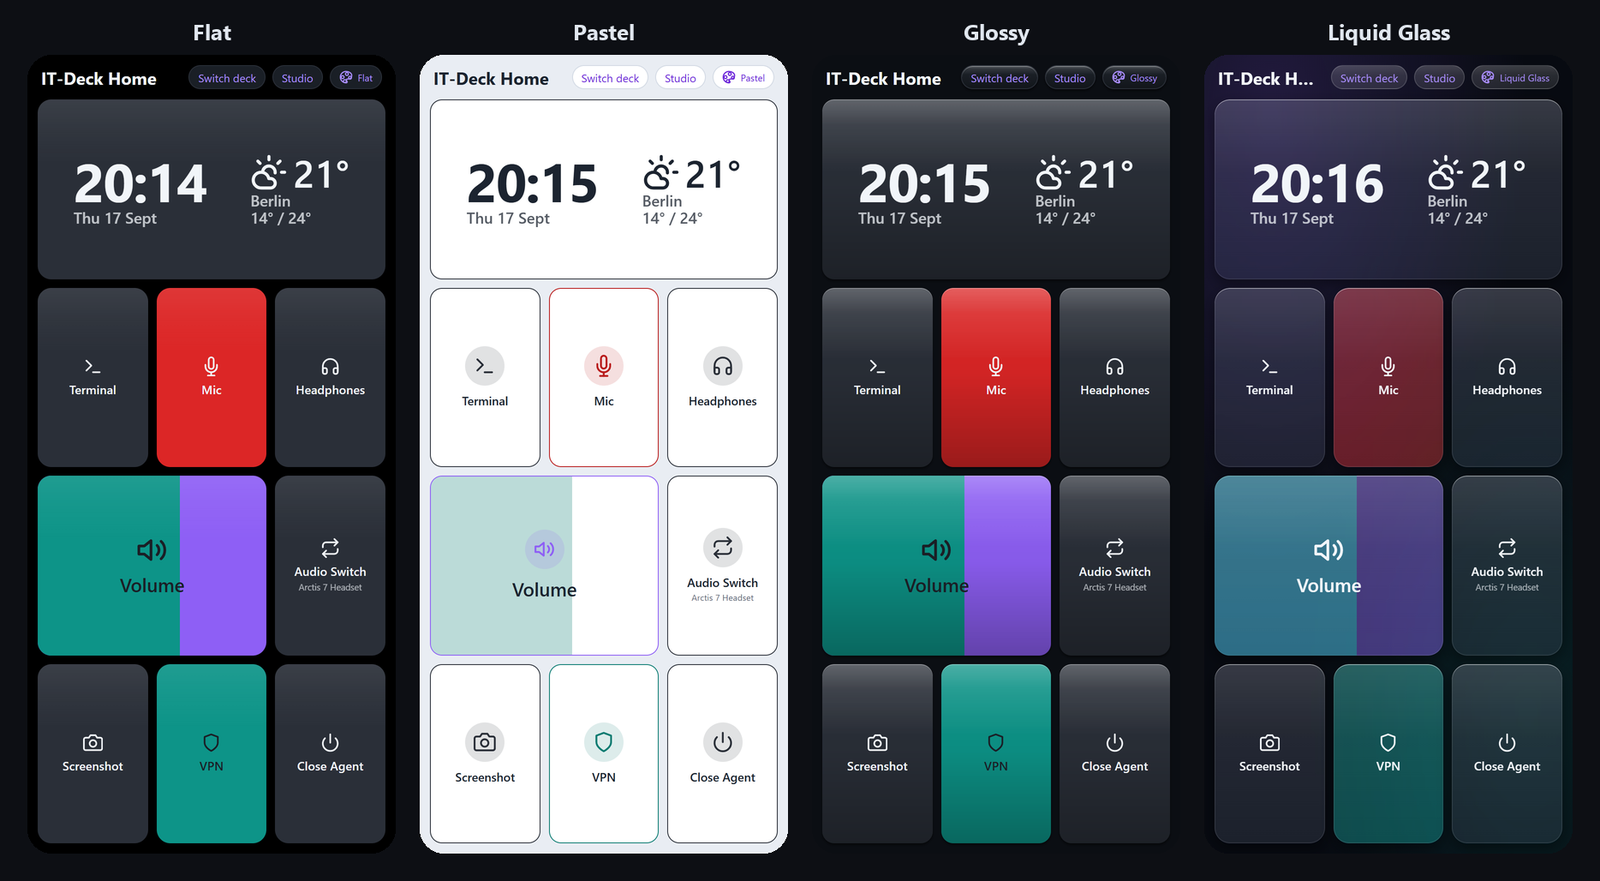
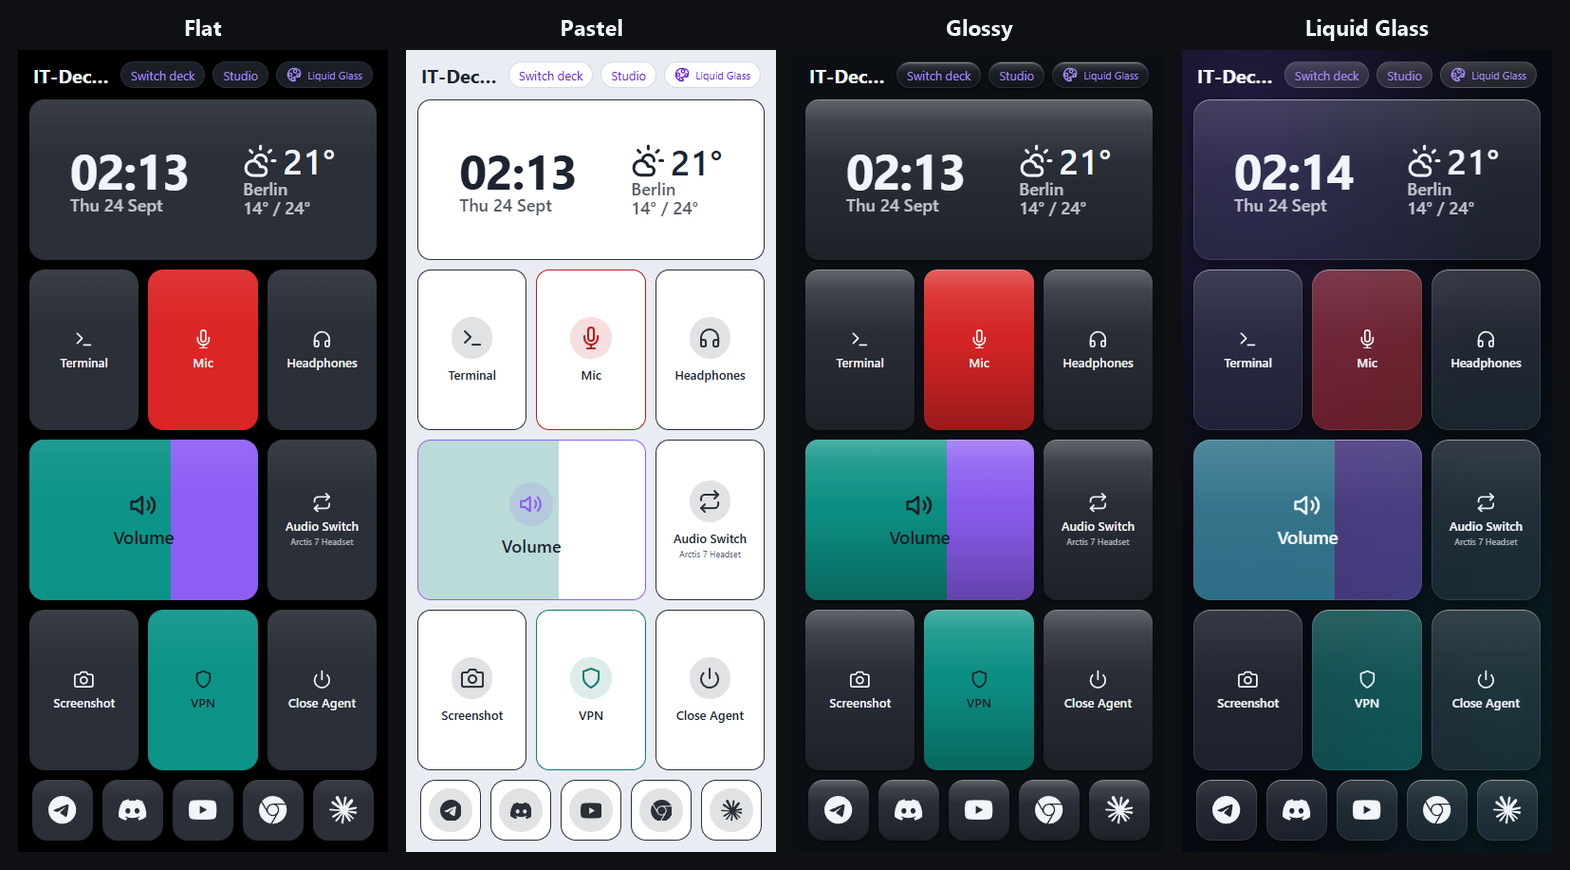
fix: keep tile state across redraws; new README screenshots
The backend sends state once on connect and then only changes, so any
redraw -- a Studio edit, or the first render racing the initial push --
left every tile unlit until its value changed. render.js now remembers
the last reported state and re-applies it after each render.

README and the in-app guide get fresh screenshots: the quick-launch bar
in all four themes, v0.5.0's Studio and PC window.

diff --git a/frontend/js/render.js b/frontend/js/render.js
@@ -411,6 +411,9 @@ export function renderWorkspace(workspace, onTileClick, onSliderChange, onTileLo
     applyTileInk(tile);
   }
 
+  // Fresh tiles know nothing; give them the state already reported.
+  updateTileState({ ...knownState });
+
   // Also after the append: a widget lays itself out with container queries,
   // and those need a tile that is in the document and has a size.
   for (const [tile, item] of widgets) {
@@ -532,7 +535,16 @@ function attachSliderHandlers(tile, item, onSliderChange) {
   });
 }
 
+// The last value seen for every state key. The backend sends the full state
+// once when the socket connects and only *changes* after that, so anything
+// that redraws the tiles -- the first render racing that initial push, or a
+// Studio edit re-rendering the deck -- would otherwise come back with every
+// tile unlit until its value happened to change again (a muted mic showing
+// as live). renderWorkspace re-applies this after drawing.
+const knownState = {};
+
 export function updateTileState(stateData) {
+  Object.assign(knownState, stateData);
   for (const [key, value] of Object.entries(stateData)) {
     const tiles = document.querySelectorAll(`.tile[data-state-key="${CSS.escape(key)}"]`);
 

diff --git a/docs/IT-Deck_Tech_Reference.md b/docs/IT-Deck_Tech_Reference.md
@@ -123,7 +123,7 @@ state snapshot every second.
 | `js/app.js` | Boot: fetch workspaces, resolve which deck to show (`localStorage` → `?workspace=` → selector), render, wire WebSocket callbacks, map tagged failures to actionable messages. Ends with the empty `touchstart` listener iOS needs for `:active`. |
 | `js/api.js` | REST fetches plus per-item `params` JSON parsing. Tags each failure kind (`unreachable`, `status`, `badReply`, `badParams`). |
 | `js/ws.js` | Client WebSocket: connect/reconnect with backoff (1 s → 30 s), `sendExecute`, `sendSetValue`, manual `req_id` generation, and the in-flight bookkeeping that turns raw result frames into per-tile `pending`/`ok`/`error` phases. |
-| `js/render.js` | Every DOM write: grid, quick-launch bar and tiles, the icon table and `tileIconFor()` (glyph / brand logo / text / site-icon image), the WCAG ink calculation, the volume slider's pointer + keyboard handling, live state → colour/fill/subtitle, command-feedback classes, the workspace selector, the error state. |
+| `js/render.js` | Every DOM write: grid, quick-launch bar and tiles, the icon table and `tileIconFor()` (glyph / brand logo / text / site-icon image), the WCAG ink calculation, the last reported state (`knownState`, re-applied after every render — the backend only sends changes), the volume slider's pointer + keyboard handling, live state → colour/fill/subtitle, command-feedback classes, the workspace selector, the error state. |
 | `js/studio.js` | Studio controller: loading, the agent token dialog + `api()` helper (drops the token on any 401), workspace/mode pickers, compaction, the VPN setup card. |
 | `js/studio-inspector.js` | Studio's editor panel, generated from the catalog (type cards, setup fields, appearance, size, "More settings" JSON for unmanaged keys). |
 | `js/studio-preview.js` | Studio's deck preview: real `.tile` markup + live widgets, `+` free cells, drag-to-move. |

diff --git a/README.md b/README.md
@@ -10,13 +10,15 @@ actually doing.
 
 | The deck, on your phone | Studio, on the PC |
 | --- | --- |
-| <img src="docs/screenshots/dashboard.png" alt="The IT-Deck deck on a phone: a clock and weather widget, the Mic tile red while muted, Volume at 62 %, Audio Switch showing the current device, VPN lit while it runs" width="300"> | ![Studio: a live preview of the deck next to the step-by-step editor for the VPN tile, with the VPN setup card on top](docs/screenshots/studio.png) |
+| <img src="docs/screenshots/dashboard.png" alt="The IT-Deck deck on a phone: a clock and weather widget, the Mic tile red while muted, Volume at 62 %, Audio Switch showing the current device, VPN lit while it runs, and the quick-launch bar along the bottom: Telegram, Discord, YouTube, Chrome, Claude" width="300"> | ![Studio: a live preview of the deck next to the editor for a Website tile, with one-tap presets for popular sites](docs/screenshots/studio.png) |
 
 The tiles report real state, not just clicks: above, the microphone is
 **muted** (red), volume sits at **62 %**, Audio Switch names the **current
-output device**, and **VPN is lit** because the client is running. **Studio**
-(right) is where the deck is built — click a tile in the live preview to edit
-it, `+` to add one, drag to move.
+output device**, and **VPN is lit** because the client is running. Along the
+bottom is the **quick-launch bar** — sites and programs one tap away (it moves
+to the left side when the phone is sideways). **Studio** (right) is where the
+deck is built — click a tile in the live preview to edit it, `+` to add one,
+drag to move.
 
 Four themes, each on a dark or light background:
 

diff --git a/CHANGELOG.md b/CHANGELOG.md
@@ -7,6 +7,22 @@ standalone mode is §10, tech debt is §12.
 
 ---
 
+## Unreleased
+
+### Fixed
+
+- **Tiles lost their state after a redraw.** A Studio edit re-renders the
+  deck on the phone, and the backend only sends state when it *changes* — so
+  a muted mic showed as live, VPN unlit, until something happened to change.
+  The deck now remembers the last reported state and re-applies it after
+  every redraw.
+
+### Docs
+
+- New README screenshots: the quick-launch bar, v0.5.0's Studio and window.
+
+---
+
 ## v0.5.0 — 2026-09-24
 
 ### Added
